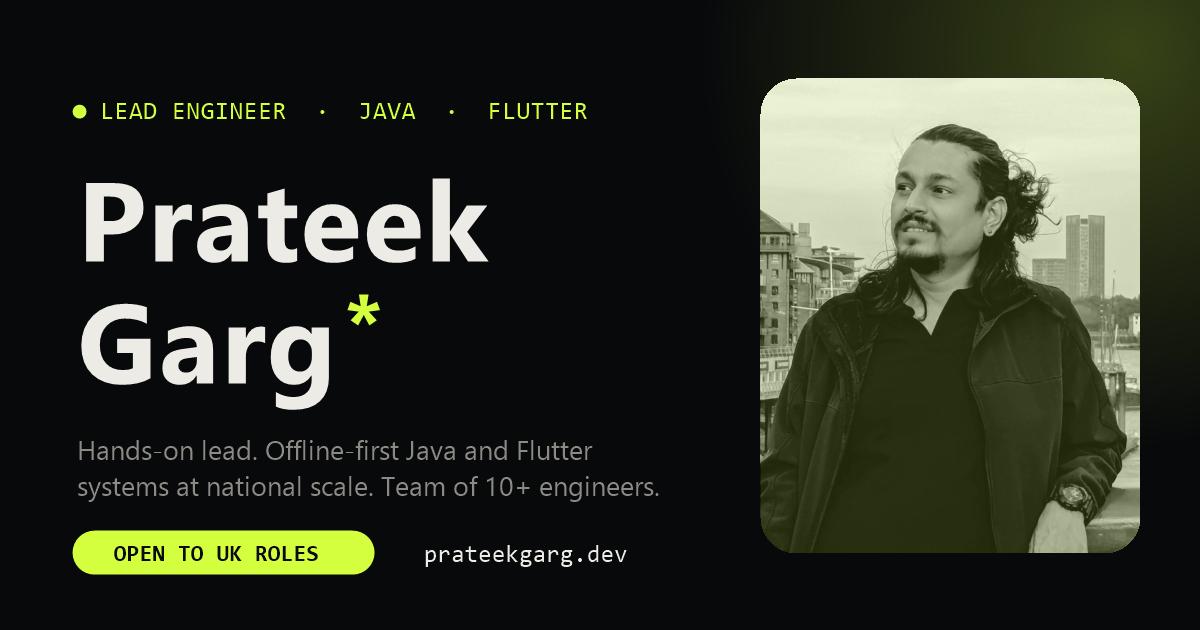
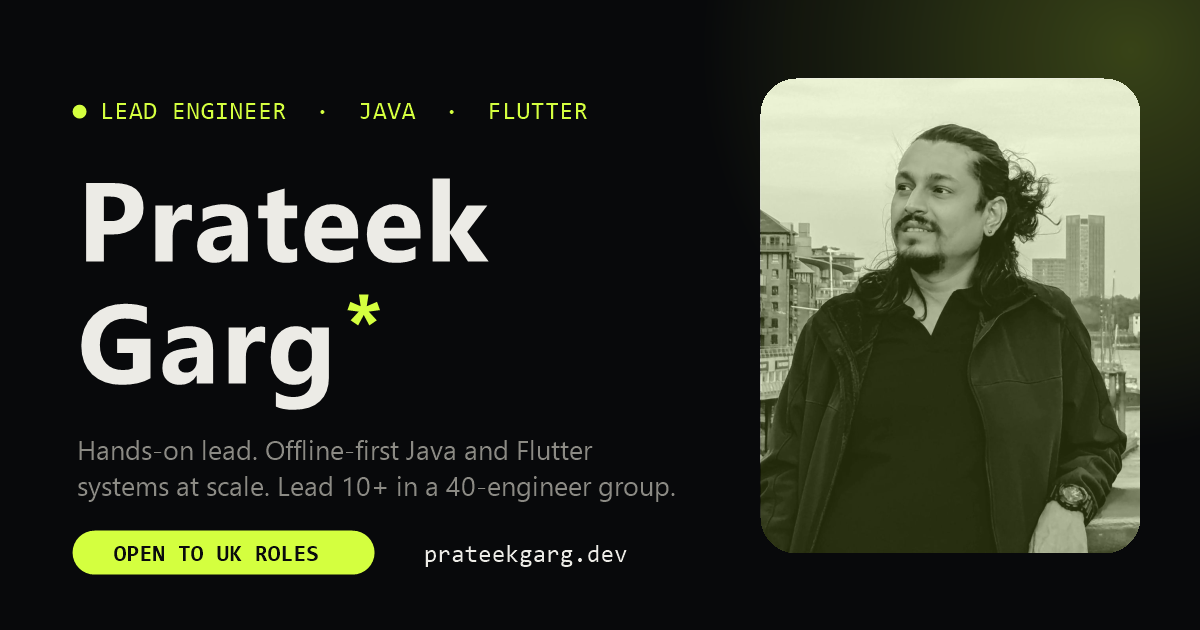
Clarify team size: leads 10+ within a 40-engineer group

Changed region(s): [[0.1542, 0.754, 0.555, 0.8143]]

diff --git a/index.html b/index.html
@@ -4,7 +4,7 @@
   <meta charset="UTF-8">
   <meta name="viewport" content="width=device-width, initial-scale=1">
   <title>Prateek Garg — Lead Engineer · Java · Flutter · Open to UK roles</title>
-  <meta name="description" content="Prateek Garg is a hands-on lead engineer (Java, Spring Boot, Flutter, Android) with 9 years building offline-first platforms at national scale and leading a team of 10+ engineers. Open to lead roles in the UK.">
+  <meta name="description" content="Prateek Garg is a hands-on lead engineer (Java, Spring Boot, Flutter, Android) with 9 years building offline-first platforms at national scale and leading 10+ engineers within a 40-engineer group. Open to lead roles in the UK.">
   <meta name="author" content="Prateek Garg">
   <meta name="theme-color" content="#08090b">
   <link rel="canonical" href="https://prateekgarg.dev/">
@@ -126,7 +126,7 @@
             My work serves <em>300 million people.</em>
           </p>
           <div class="hero__meta reveal-up">
-            <span class="mono">9 years · team of 10+ engineers</span>
+            <span class="mono">9 years · lead 10+ in a 40-engineer group</span>
             <span class="mono">Java · Spring Boot · Flutter · Android</span>
           </div>
         </div>
@@ -152,7 +152,7 @@
       <p class="manifesto__text" data-words>
         I'm a lead who still <em>writes code every day.</em> For nine years I've designed Java and Flutter
         systems for the hardest conditions: <em>no network, low-end phones</em> and government deadlines.
-        I lead a team of 10+ engineers and mentor them into
+        In a group of 40 engineers, I lead a team of 10+ and mentor them into
         <em>owners of their own projects.</em> I care about two things:
         software that holds up in the real world, and <em>teams that don't need me in every meeting.</em>
       </p>
@@ -192,7 +192,7 @@
         <article class="pillar pillar--accent">
           <span class="pillar__num mono">04</span>
           <h3>Team leadership &amp; delivery</h3>
-          <p>I run hiring, onboarding, code-review standards, sprint planning and releases for a team of 10+ engineers, and I own delivery with government and NGO clients.</p>
+          <p>I run hiring, onboarding, code-review standards, sprint planning and releases for my team of 10+ engineers within a 40-engineer group, and I own delivery with government and NGO clients.</p>
           <p class="pillar__proof"><span class="mono">Proof</span> Grew 10+ engineers into implementation owners, and consistently hit government rollout deadlines.</p>
           <ul class="chips"><li>Hiring</li><li>Mentoring</li><li>Agile / Scrum</li><li>Stakeholders</li></ul>
         </article>
@@ -388,7 +388,7 @@
           <span class="panel__year">2023</span>
           <div class="panel__body">
             <p class="mono panel__tag">Group Lead, Technology</p>
-            <h3>A team of 10+, 11 deployments</h3>
+            <h3>Leading 10+ in a 40-engineer group</h3>
             <p>Designed the configuration-driven platform, led the migration from Android to Flutter, and own delivery for government and NGO clients.</p>
           </div>
         </article>
